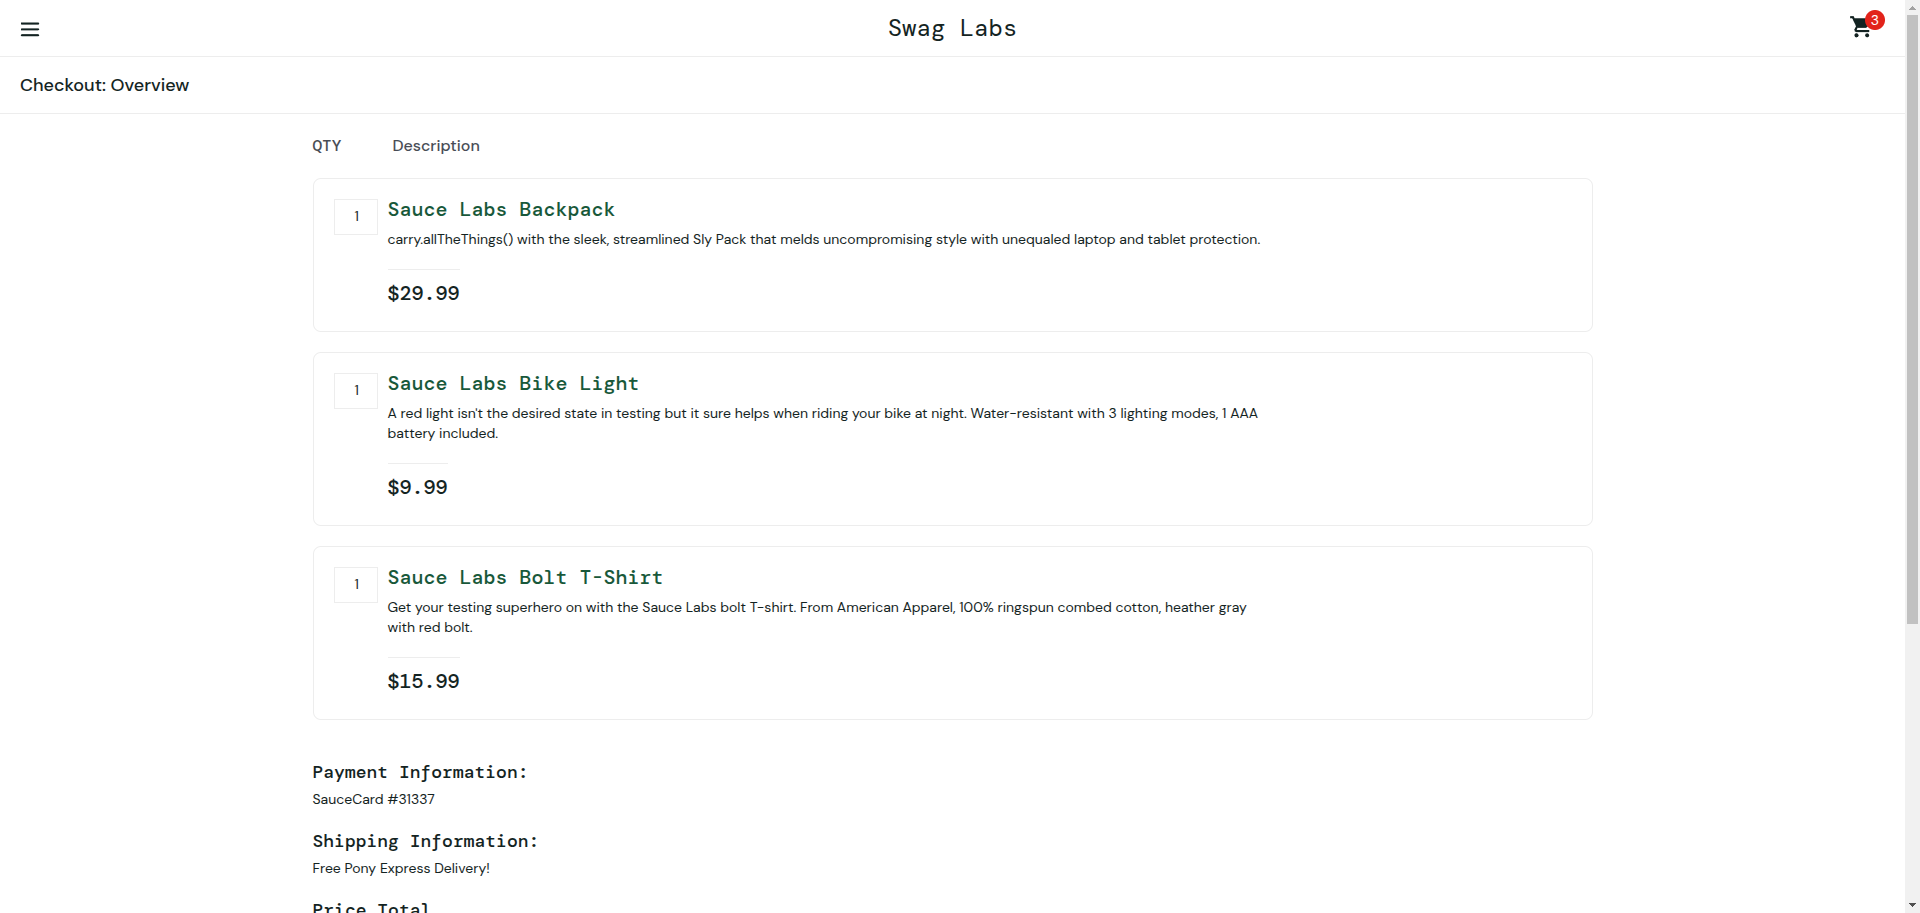
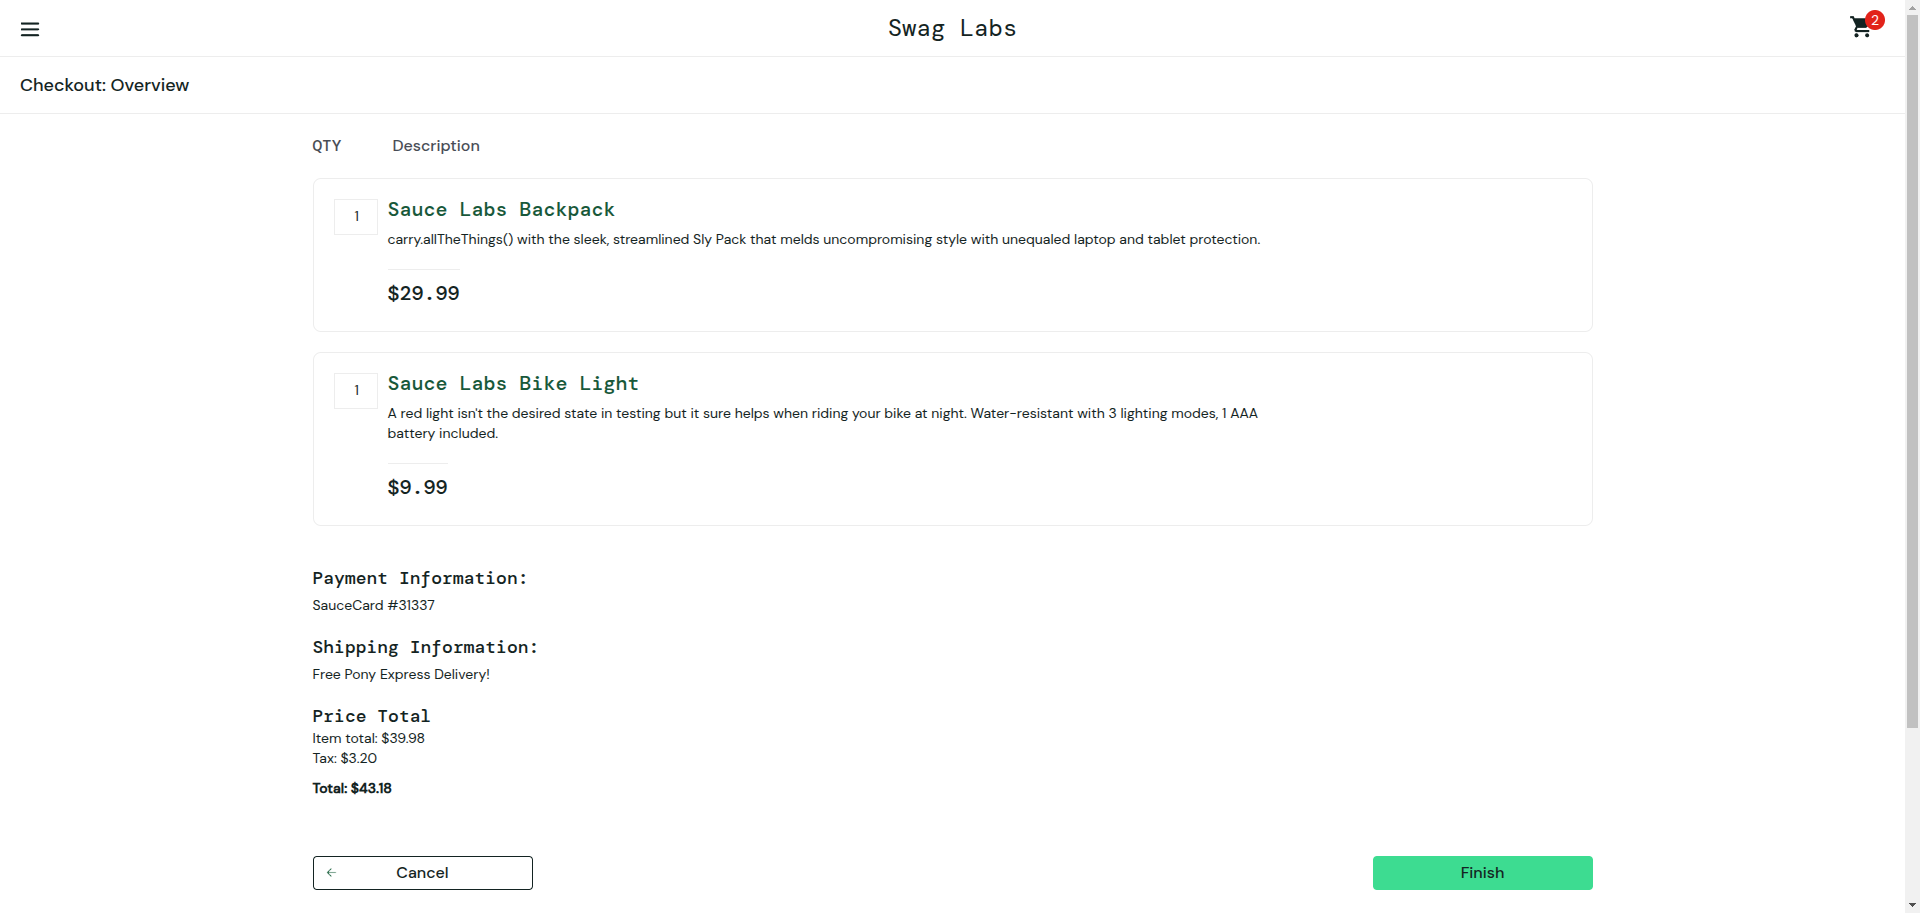
Создан класс страницы SummaryPage Закончен тест отсновного функционала магазина.

diff --git a/pages/summary_page.py b/pages/summary_page.py
@@ -12,3 +12,179 @@ class SummaryPage(Base):
     Класс для тестирования страницы оформления заказа (шаг-2),
     проверки стоимости заказа и комиссии
     """
+
+    # Локаторы для поиска элементов на странице 'SummaryPage'
+    summary_list_locator = "cart_item"
+    summary_tax_label_locator = "summary_tax_label"
+    summary_total_locator = "summary_total_label"
+    summary_subtotal_locator = "summary_subtotal_label"
+    button_finish = "finish"
+
+    # Геттеры
+
+    # Метод для получения списка товаров на странице офформления (шаг-2)
+    def get_summary_list(self):
+        wait = WebDriverWait(self.driver, 10)
+        summary_list = wait.until(
+            EC.presence_of_all_elements_located(
+                (By.CLASS_NAME, self.summary_list_locator)
+            )
+        )
+        return summary_list
+
+    def get_tax(self):
+        wait = WebDriverWait(self.driver, 10)
+        # Получение значения комиссии
+        tax_in_cart = wait.until(
+            EC.presence_of_element_located(
+                (By.CLASS_NAME, self.summary_tax_label_locator)
+            )
+        )
+        return tax_in_cart
+
+    def get_summary_total(self):
+        total_in_cart = self.driver.find_element(
+            By.CLASS_NAME, self.summary_total_locator
+        )
+        return total_in_cart
+
+    def get_summary_subtotal(self):
+        wait = WebDriverWait(self.driver, 10)
+        # Получение общей стоимости товаров в корзине без комиссии
+        subtotal_in_cart = wait.until(
+            EC.presence_of_element_located(
+                (By.CLASS_NAME, self.summary_subtotal_locator)
+            )
+        )
+        return subtotal_in_cart
+
+    def get_button_finish(self):
+        wait = WebDriverWait(self.driver, 10)
+        button_finish = wait.until(
+            EC.element_to_be_clickable((By.ID, self.button_finish))
+        )
+        return button_finish
+
+    def get_button_home_page(self):
+        wait = WebDriverWait(self.driver, 10)
+        # Нажатие на кнопку возврата на домашнюю страницу
+        back_home_page = wait.until(
+            EC.element_to_be_clickable((By.ID, "back-to-products"))
+        )
+        return back_home_page
+
+    # Действия
+
+    # Метод добавления товаров в корзину и проверки товаров находящихся в корзине и summory
+    def processing_cart(self, num: int, items, text: str):
+        item_list = {}
+        for i, item in enumerate(items, start=1):
+            if i <= num:
+                product_name = item.find_element(By.CLASS_NAME, "inventory_item_name")
+                product_price = item.find_element(By.CLASS_NAME, "inventory_item_price")
+                if text == "Add to cart":
+                    item.find_element(By.TAG_NAME, "button").click()
+                    print(
+                        f"Добавили товар {product_name.text} с ценой {product_price.text} в корзину"
+                    )
+                    item_list[product_name.text] = product_price.text.strip("$")
+                else:
+                    item_list[product_name.text] = product_price.text.strip("$")
+                    print(
+                        f"Добавили товар {product_name.text} с ценой {product_price.text} в список"
+                    )
+        return item_list
+
+    # Метод для обработки и проверки товаров на странице оформления (шаг-2)
+    def products_in_summary(self, num: int):
+        inventory_list = self.get_summary_list()
+        summary_list = self.processing_cart(num, inventory_list, "finish")
+        print("Проверка итогового списка")
+        print("Товар в итоговом списке - ", summary_list)
+        return summary_list
+
+    # Метод рассчета общей стоимости товаров в корзине
+    def calculate_total(self, items: dict):
+        # Рассчет общей стоимости товаров в корзине
+        total = self.cart_total(items)
+        print(f"Общая стоимость товаров в корзине - {total}")
+        return total
+
+    # Метод для получения общей стоимости товаров в корзине
+    def calculate_subtotal(self, subtotal_in_cart):
+        subtotal = float(subtotal_in_cart.text.split("$")[1])
+        print(f"Стоимость товаров без комиссии - {subtotal}")
+        return subtotal
+
+    # Метод для получения комиссии
+    def calculate_tax(self, tax_in_cart):
+        tax = float(tax_in_cart.text.split("$")[1])
+        print(f"Комиссия составляет - {tax}")
+        return tax
+
+    # Метод получения полной стоимости заказа
+    def calculate_summary_total(self, summary_total_in_cart):
+        # Получение стоимости товаров включая комиссию
+        summary_total = float(summary_total_in_cart.text.split("$")[1])
+        print(f"Стоимость товаров включая комиссию составляет - {summary_total}")
+        return summary_total
+
+    # Метод для посчета общей стоимости корзины
+    def cart_total(self, products: dict):
+        cart_total = 0.0
+        for price in products.values():
+            cart_total += float(price)
+        return round(cart_total, 2)
+
+    def click_button_finish(self):
+        self.get_button_finish().click()
+
+    def click_button_home_page(self):
+        self.get_button_home_page().click()
+        print("Нажатие на кнопку возврата на домашнюю страницу!")
+
+    # Проверки состояний
+
+    def assert_total_subtotal(self, total, subtotal):
+        # Проверка совпадения значений тотал и субтотал (перенести в асерты)
+        # Проверка общей стоимости товаров без комиссии
+        assert total == subtotal, (
+            "Ошибка!!! Общая стоимость товаров без комиссии не совпадает!"
+        )
+        print("успешно!!! Общая стоимость товаров без комиссии совпадает!")
+
+    def assert_tax_summary_total(self, total, tax, summary_total):
+        # Проверка стоимости товаров включая комиссию
+        assert round((total + tax), 2) == summary_total, (
+            "Ошибка!!! Общая стоимость товаров включая комиссию не совпадает!"
+        )
+        print("Успешно!!! Общая стоимость товаров включая комиссию совпадает!")
+
+    # Методы
+
+    def cart_finish(self, products_amount):
+        summary_list = self.products_in_summary(products_amount)
+
+        # Расчитываем общую стоимость товаров в корзине без комиссии
+        total = self.calculate_total(summary_list)
+        subtotal = self.calculate_subtotal(self.get_summary_subtotal())
+        # Проверка общей стоимости товаров в корзине без комиссии
+        self.assert_total_subtotal(total, subtotal)
+
+        # Получаем значение комиссии
+        tax = self.calculate_tax(self.get_tax())
+        summary_total = self.calculate_summary_total(self.get_summary_total())
+        # Проверка общей стоимости товаров в корзине включая комиссию
+        self.assert_tax_summary_total(total, tax, summary_total)
+
+        # Нажатие на кнопку 'Finish'
+        self.click_button_finish()
+        # Проверка перехода на страницу завершения оформления заказа
+        self.assert_url("https://www.saucedemo.com/checkout-complete.html")
+        time.sleep(5)
+
+        # Нажатие на кнопку 'Back to home'
+        self.click_button_home_page()
+        # Проверка перехода на страницу завершения оформления заказа
+        self.assert_url("https://www.saucedemo.com/inventory.html")
+        time.sleep(5)

diff --git a/tests/test_product.py b/tests/test_product.py
@@ -4,13 +4,15 @@ from selenium import webdriver
 # from selenium.webdriver.support.wait import WebDriverWait
 # from selenium.webdriver.support import expected_conditions as EC
 
+from pages import summary_page
 from pages.cart_page import CartPage
 from pages.info_page import InfoPage
 from pages.login_page import LoginPage
 from pages.market_page import MarketPage
+from pages.summary_page import SummaryPage
 
 
-def test_cart_step_2():
+def test_base_functionality():
     # Количество добавляемых товаров в корзину
     products_amount = 2
 
@@ -29,9 +31,11 @@ def test_cart_step_2():
         market_page = MarketPage(driver)
         cart_page = CartPage(driver)
         info_page = InfoPage(driver)
+        summary_page = SummaryPage(driver)
 
         # Тесткейс
         login_page.autentification(login, password)
         market_page.add_products_to_cart(products_amount)
         cart_page.checkout(products_amount)
         info_page.set_user_info(first_name, last_name, zip_code)
+        summary_page.cart_finish(products_amount)
